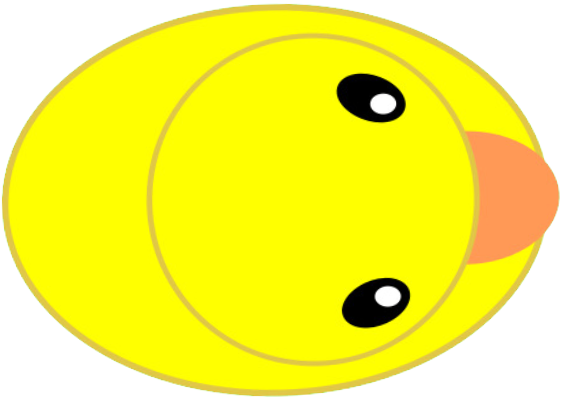
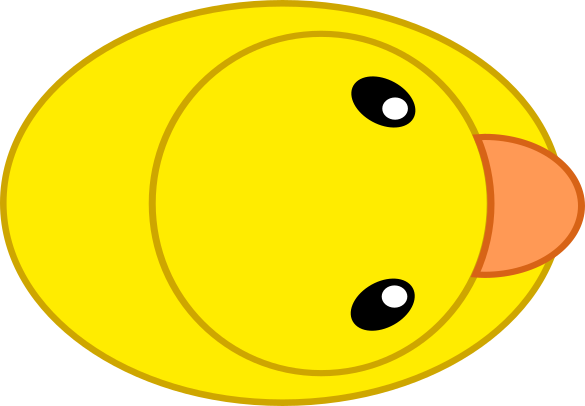
Improve crash detection for baby ducks
- change speeds to only 2 noticeable levels (10 - default, 0 - faster)
- add label and counter for high score
- update high score counter if score is greater than high score
- improve collision detection for immediately turning in opposite direction and crashing into baby duck
- update player image
- play chirp sound when baby duck is added
- modify assets

Changed region(s): [[0.0, 0.0, 1.0, 1.0], [0.6061, 0.18, 0.7273, 0.33]]

diff --git a/GameInterface/MainPage.xaml b/GameInterface/MainPage.xaml
@@ -43,6 +43,28 @@
             FontFamily="Cascadia Code" 
             />
 
+        <TextBlock x:Name="lblHighscore" 
+          Grid.Column="1"
+          Grid.Row="2"
+          Margin="0,10,0,0"
+          VerticalAlignment="Top"
+          TextWrapping="Wrap" 
+          Text="HIGHSCORE: " 
+          FontSize="30" 
+          FontFamily="Cascadia Code"
+          />
+
+        <TextBlock x:Name="txtHighscore" 
+          Grid.Column="1"
+          Grid.Row="2"
+          Margin="190,10,306,0"
+          VerticalAlignment="Top" 
+          TextWrapping="Wrap" 
+          Text="0" 
+          FontSize="30" 
+          FontFamily="Cascadia Code" 
+          />
+
         <TextBlock x:Name="txtSpeed" 
             Grid.Column="1"
             Grid.Row="0"
@@ -63,7 +85,7 @@
             HorizontalAlignment="Right" 
             VerticalAlignment="Top" 
             TextWrapping="Wrap" 
-            Text="ducks can eat fish" 
+            Text="" 
             FontSize="22" 
             FontFamily="Imprint MT Shadow" 
             Foreground="Gray"

diff --git a/GameInterface/MainPage.xaml.cs b/GameInterface/MainPage.xaml.cs
@@ -12,6 +12,9 @@ using Windows.Storage;
 using System.IO;
 using Windows.UI.Xaml.Shapes;
 using Windows.UI.Popups;
+using System.Threading.Tasks;
+using Windows.Media.Playback;
+using Windows.Media.Core;
 
 /* UWP Game Template
  * Created By: Melissa VanderLely
@@ -47,6 +50,7 @@ namespace GameInterface
         private Random random = new Random(); //random number generator
         private DispatcherTimer timer = new DispatcherTimer(); //timer
         private Windows.System.VirtualKey currentDirection; //current key press direction
+        private Windows.System.VirtualKey lastDirection;
 
         //set variables 
         private int score = 0;
@@ -54,8 +58,9 @@ namespace GameInterface
         private int speed = 10;
         private int defaultSpeed = 10;
 
-        StorageFile storageFile;
-
+        //StorageFolder assetsFolder;
+        MediaPlayer chirp = new MediaPlayer(); //chirp sound
+        //bool soundPlaying = false;
 
         public MainPage()
         {
@@ -68,6 +73,8 @@ namespace GameInterface
 
             //add event handler to timer
             timer.Tick += HandleMovement;
+
+            InitializeMediaPlayer();
         }
 
         private void CoreWindow_KeyDown(object sender, Windows.UI.Core.KeyEventArgs e)
@@ -171,14 +178,14 @@ namespace GameInterface
             if (bonusDot == null && (score == 10 || score == 35 || score == 50))
             {
                 bonusDot = CreatePiece("fish", 40, 0, 0, true);
-                lblInfo.Text = "ducks can eat fish :)".ToUpper();
+                lblInfo.Text = "ducks can eat fish";
             }
 
             //if enemy does not exist and score hits 15
             if (enemy == null && (score == 20 || score == 60))
             {
                 enemy = CreatePiece("turtle", 80, 0, 0, true);
-                lblInfo.Text = "do not eat turtle".ToUpper();
+                lblInfo.Text = "do not eat the turtle";
             }
 
             AlignBabyDucks(); //ensure baby ducks follow directly behind player
@@ -190,6 +197,9 @@ namespace GameInterface
             score += 2; //2 bonus points
             txtScore.Text = score.ToString(); //update score
 
+            if (score > highscore)
+                txtHighscore.Text = score.ToString();
+
             gridMain.Children.Remove(bonusDot.PieceImg); //remove piece
             bonusDot = null;
 
@@ -200,10 +210,15 @@ namespace GameInterface
         {
             score++; //increment score
             txtScore.Text = score.ToString(); //display score
+           
+            if(score > highscore)
+                txtHighscore.Text = score.ToString();
 
             //add baby duck
             babyDuck = CreatePiece("player", 40, 700, 700);
             collectedDucks.Add(babyDuck);
+
+            chirp.Play();
 
             SpawnNewDot(); //remove dot and spawn new one
             CheckLevelUp(); //check if level up
@@ -222,22 +237,22 @@ namespace GameInterface
         {
             switch (score)
             {
-                case 30:
-                    ResetGame("Level 2", 30, 5); //faster
+                case 40:
+                    ResetGame("Level 2", 40, 0); //faster = 5
                     CheckSpeed();
                     break;
-                case 65:
-                    ResetGame("Level 3", 65, 0); //extra fast
-                    CheckSpeed();
-                    break;
-                case 85:
-                    ResetGame("Level 4", 85, -5); //super fast
-                    CheckSpeed();
-                    break;
-                case 100:
-                    ResetGame("Level 5", 100, -10); //extreme
-                    CheckSpeed();
-                    break;
+                //case 65:
+                //    ResetGame("Level 3", 65, -10); //extra fast = 0
+                //    CheckSpeed();
+                //    break;
+                //case 85:
+                //    ResetGame("Level 4", 85, -5); //super fast = -5
+                //    CheckSpeed();
+                //    break;
+                //case 100:
+                //    ResetGame("Level 5", 100, -10); //extreme = -10
+                //    CheckSpeed();
+                //    break;
                 default:
                     break;
             }
@@ -251,17 +266,8 @@ namespace GameInterface
                 case 10:
                     txtSpeed.Text = "Normal".ToUpper();
                     break;
-                case 5:
-                    txtSpeed.Text = "Faster".ToUpper();
-                    break;
                 case 0:
-                    txtSpeed.Text = "Extra Fast".ToUpper();
-                    break;
-                case -5:
-                    txtSpeed.Text = "Super Fast".ToUpper();
-                    break;
-                case -10:
-                    txtSpeed.Text = "Extreme".ToUpper();
+                    txtSpeed.Text = "Faster".ToUpper();
                     break;
                 default:
                     break;
@@ -283,7 +289,7 @@ namespace GameInterface
                     playerBounds.Bottom > pieceBounds.Top);
         }
 
-        private void CheckCrash()
+        private async void CheckCrash()
         {
             int ignoreCount = 3; //ducks immediately behind player to ignore
             int playerLeft = (int)player.Location.Left;
@@ -307,6 +313,22 @@ namespace GameInterface
                 || (rotateTransform.Angle == 180 && playerLeft == -620) //left
                 || (rotateTransform.Angle == 0 && playerLeft == 620)) //right
                 ResetGame("Game Over", 0, defaultSpeed);
+
+            //check if player immediately goes in the opposite direction and crashes into baby duck
+            while(collectedDucks.Count > 0)
+            {
+                if ((lastDirection == Windows.System.VirtualKey.Up && currentDirection == Windows.System.VirtualKey.Down)
+                    || (lastDirection == Windows.System.VirtualKey.Down && currentDirection == Windows.System.VirtualKey.Up)
+                    || (lastDirection == Windows.System.VirtualKey.Left && currentDirection == Windows.System.VirtualKey.Right)
+                    || (lastDirection == Windows.System.VirtualKey.Right && currentDirection == Windows.System.VirtualKey.Left))
+                    {
+                        await Task.Delay(50);
+                        ResetGame("Game Over", 0, defaultSpeed);
+                        return;
+                    }
+                break;
+            }
+            lastDirection = currentDirection;                
         }
 
         private void AlignBabyDucks()
@@ -440,7 +462,7 @@ namespace GameInterface
                         highscore = num;
                     }
                 }
-                lblInfo.Text = highscore.ToString();
+                txtHighscore.Text = highscore.ToString();
             }
         }
 
@@ -514,6 +536,18 @@ namespace GameInterface
             playerStates.Clear();
 
             lblInfo.Text = ""; //clear text
+        }
+
+        private async void InitializeMediaPlayer()
+        {
+            StorageFolder appInstalled = Windows.ApplicationModel.Package.Current.InstalledLocation;
+            StorageFolder assetsFolder = await appInstalled.GetFolderAsync("Assets");
+
+            //get the file from the assets folder
+            StorageFile file = await assetsFolder.GetFileAsync("chirp.wav");
+
+            chirp.AutoPlay = false;
+            chirp.Source = MediaSource.CreateFromStorageFile(file);
         }
 
         private GamePiece CreatePiece(string imgSrc, int size, int left, int top, bool alignTopLeft = false)
